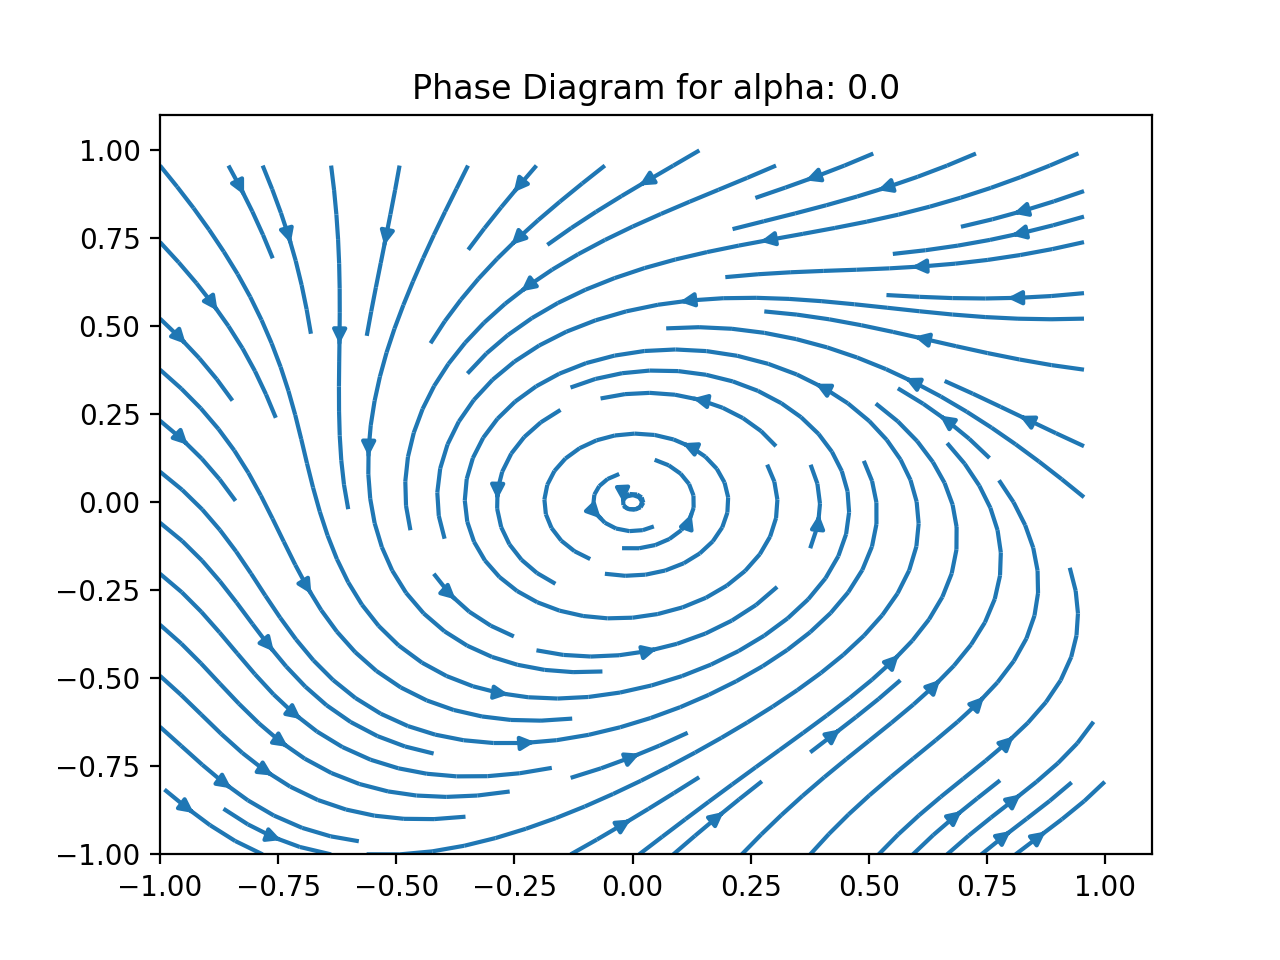
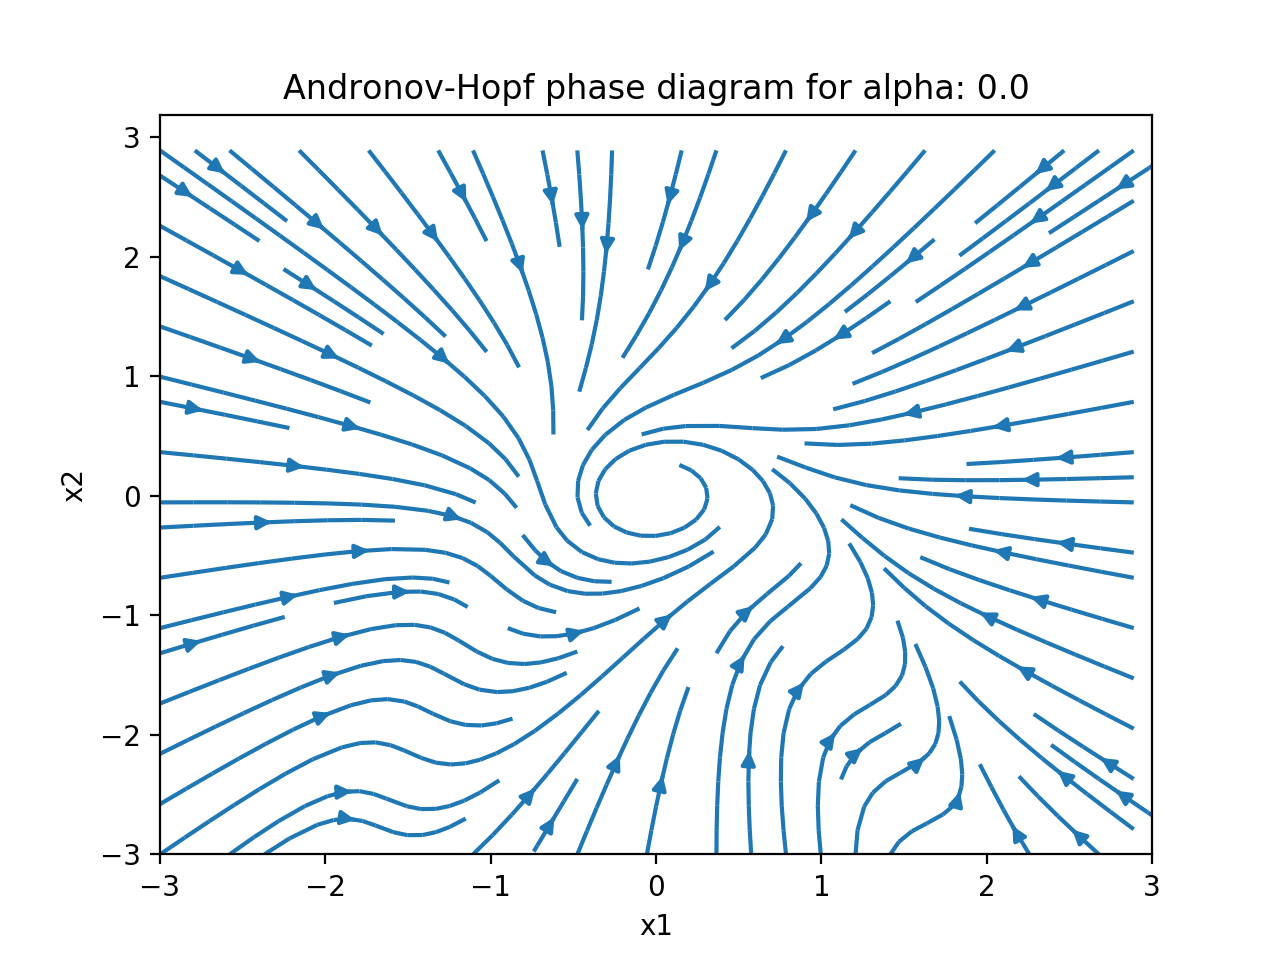
Changes for task 3

diff --git a/exercise_3/task3/plot-Andronov.py b/exercise_3/task3/plot-Andronov.py
@@ -16,7 +16,9 @@ def compute(alpha, x1, x2):
     plt.figure()
     a1 = plt.subplot()
     a1.streamplot(X1, X2, dx1, dx2)
-    a1.set_title('Phase Diagram for alpha: '+str(a))
+    a1.set_title('Andronov-Hopf phase diagram for alpha: '+str(a))
+    plt.xlabel('x1')
+    plt.ylabel('x2')
     plt.show()
 
 #  Generate 3d plot for given function fn,
@@ -109,12 +111,12 @@ if __name__ == "__main__":
     2 = cusp bifurcation diagram
     3 = Computation and visualization of trajectories for given start point and Euler approximation
     """
-    flag = 2
+    flag = 0
     if flag == 0:
         # Representative values for alpha
         alphas = [-1.8, 0.0, 1.3]
-        x1 = np.arange(-1, 1.1, 0.1)
-        x2 = np.arange(-1, 1.1, 0.1)
+        x1 = np.arange(-3, 3.1, 0.1)
+        x2 = np.arange(-3, 3.1, 0.1)
         for a in alphas:
             compute(a, x1, x2)
     elif flag == 1:
